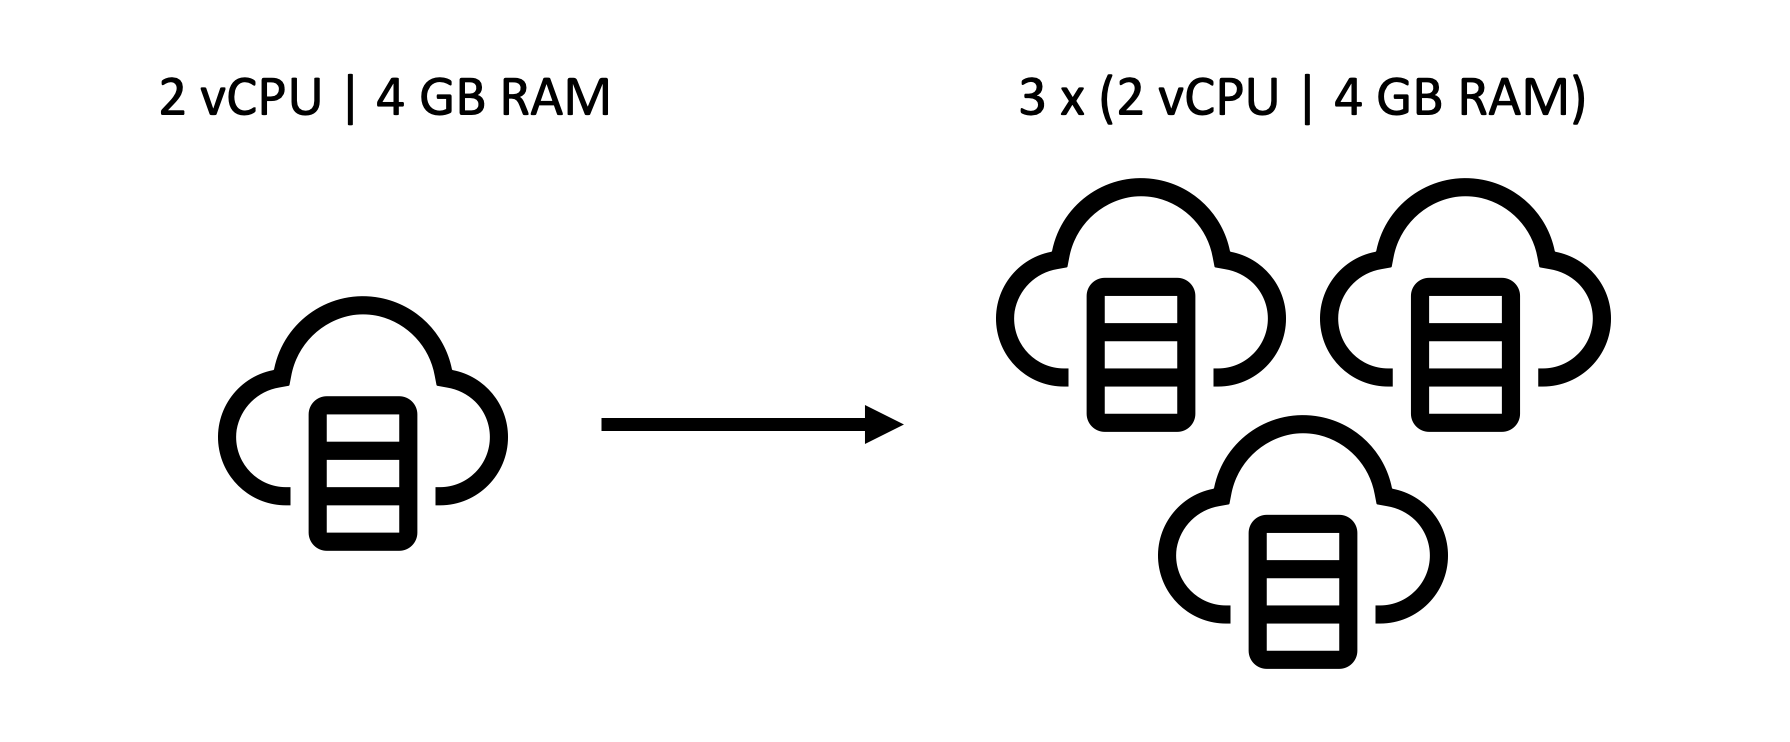
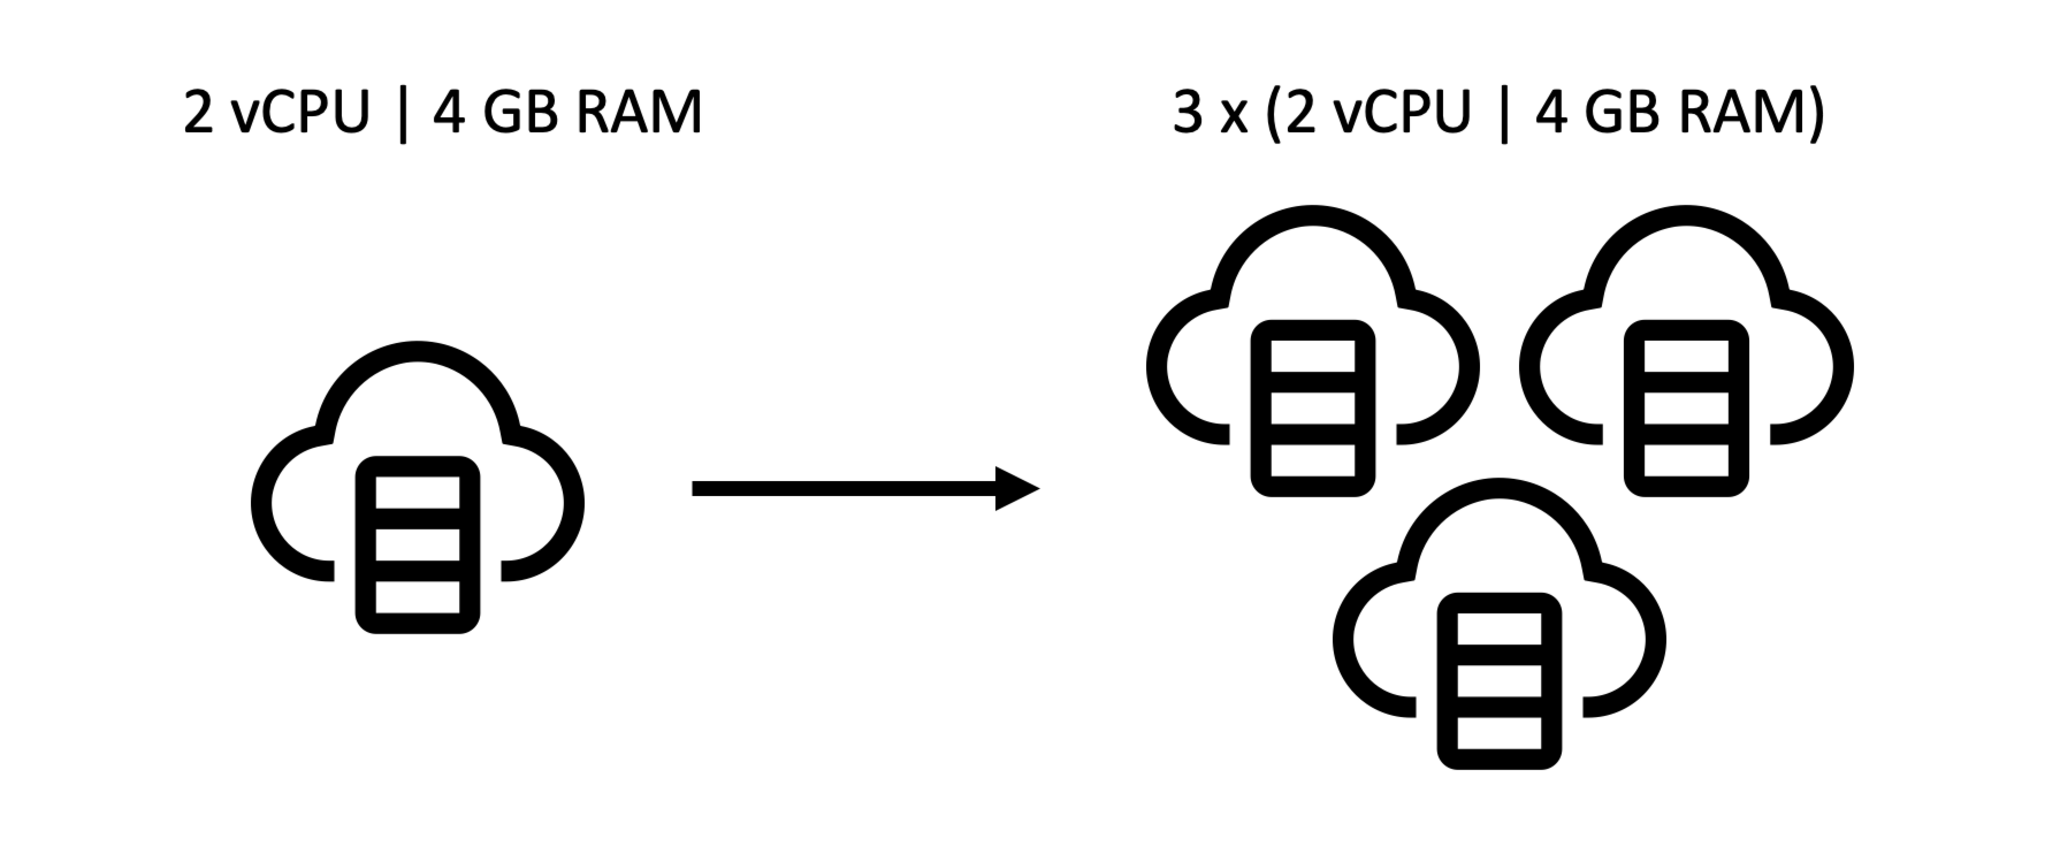
2023-05-12 DDD&MSA Develop 공부 및 용어 정리 이미지 수정

diff --git a/2023/2023-05/2023-05-12.md b/2023/2023-05/2023-05-12.md
@@ -32,9 +32,14 @@
         - 스케일 아웃(Scale-Out)은 기존 시스템과 용량이 같은 다수의 장비를 추가하여 가용성을 높이는 방법이다.(용량을 분산시켜 처리)
             -> 2GHz, 2GB 메모리를 가지고 있는 장비를 여러대 추가한다.
 
- <img src="./image/vm-scale-up.png" style="width:30%; float:left; margin-right:10px;"> 
- <img src="./image/vm-scale-out.png" style="width:35.25%;">    
+<div style=" float:left; margin-right:10px;">
+ <img src="./image/vm-scale-up.png" style="width:30%;"> <img src="./image/vm-scale-out.png" style="width:35.25%;">    
+</div>
 
+
+
+|![image.jpg1](./image/vm-scale-up.png) |![image.jpg2](./image/vm-scale-out.png) |
+--- | --- | 
 
 ※ 쉽게 성능 및 가용성을 높일 수 있는 이유.
 
